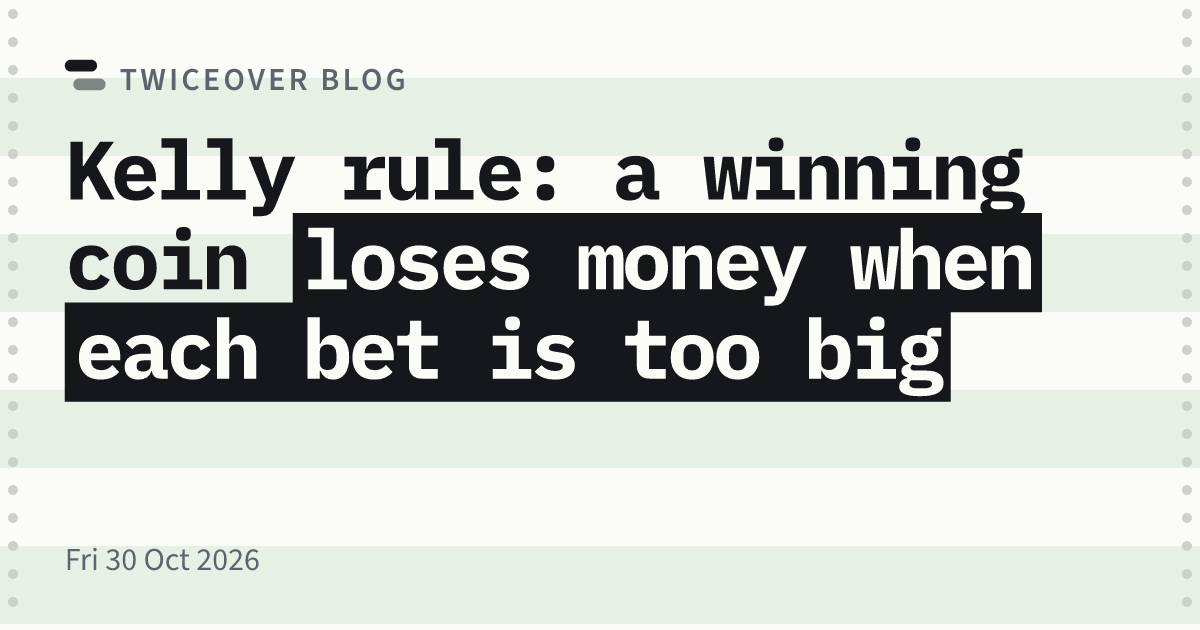
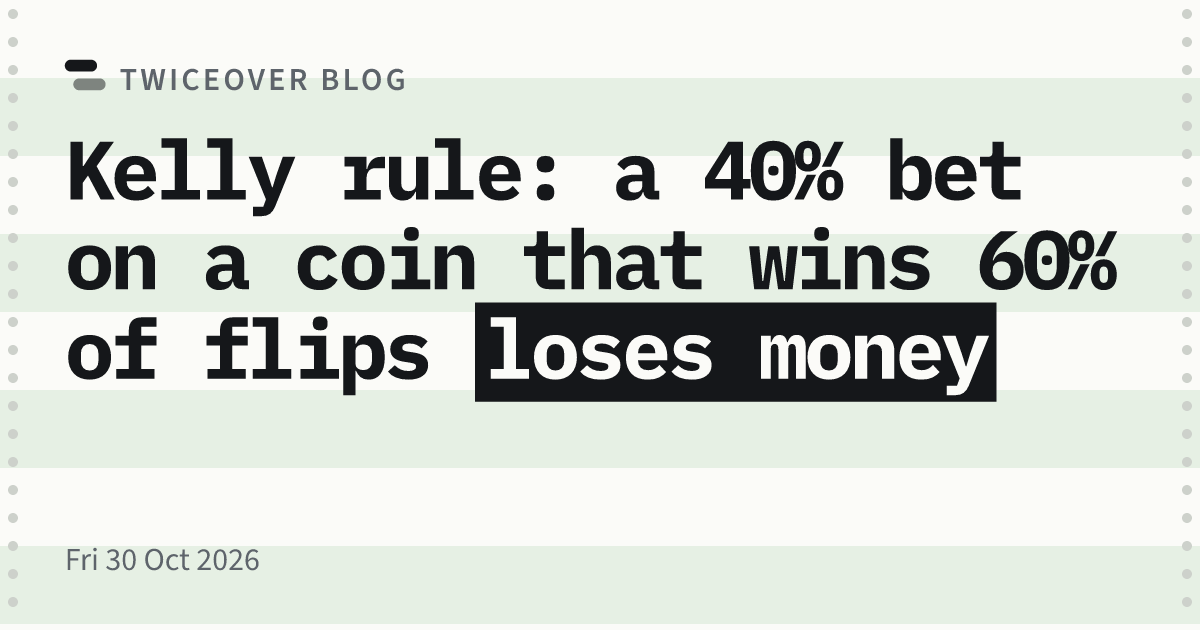
Blog: Fri 30 Oct, the Kelly rule on a 60% coin

Changed region(s): [[0.0308, 0.2111, 0.9558, 0.6635]]

diff --git a/src/content/blog/kelly-rule-bet-size.md b/src/content/blog/kelly-rule-bet-size.md
@@ -1,22 +1,22 @@
 ---
-title: "Kelly rule: a winning coin loses money when each bet is too big"
-description: "A coin that lands heads 60% of the time can still lose money. At a 40% bet on every flip, 60 wins in 100 turn $25 into $19.57. The Kelly rule puts the best bet at 20%, which ends at $187.25."
+title: "Kelly rule: a 40% bet on a coin that wins 60% of flips loses money"
+description: "A bet on a coin that lands heads 60% of the time can still lose money. At a 40% bet on every flip, 60 wins in 100 turn $25 into $19.57. The Kelly rule puts the fastest-growing bet at 20%, which ends at $187.25."
 publishAt: "2026-10-30T07:00:00-04:00"
 topic: "risk-sizing-behaviour"
 lens: "concept"
 build: "text-led"
 look: "printout"
-hit: "loses money when each bet is too big"
+hit: "loses money"
 sources: "Haghani and Dewey, 2017 | https://arxiv.org/abs/1701.01427; Kelly, 1956"
 ---
 
 ## In plain words
 
-An edge does not protect a stack from a bet that is too big. A coin that lands heads 60% of the time is a real edge, and it still loses money when each bet takes too much of the stack.
+A coin that lands heads 60% of the time gives its bettor a real edge. The bettor still loses money when each bet takes too much of the stack, the money on the table.
 
-At 20% of the stack a flip, 100 flips with 60 heads take $25 to $187.25. At 40% a flip, the same 100 flips leave $19.57. The coin did what it promised both times. Only the size changed.
+At 20% of the stack a flip, 100 flips with 60 heads take $25 to $187.25. At 40% a flip, the same 100 flips leave $19.57. The coin did what it promised both times.
 
-The best size has a name: the Kelly rule. For an even-money bet it is simple: the bet equals the edge. Here that is 60% minus 40%, so 20% of the stack.
+The Kelly rule gives the size that grows the stack fastest. John Kelly of Bell Labs published it in 1956. For an even-money bet the bet equals the edge. Here that is 60% minus 40%, so 20% of the stack.
 
 ## 1. The facts
 
@@ -39,49 +39,47 @@ Each row is the same run of 60 heads and 40 tails. The share stays fixed for all
 | 50% | $0.84 |
 | 100% | $0, at the first tail |
 
-The order of the flips changes nothing in this table. A head multiplies the stack by one plus the share bet. A tail multiplies it by one minus the share. Multiplication gives the same answer in any order, so only the count of heads matters.
+The order of the flips changes nothing in this table. Every flip multiplies the stack: by one plus the share on a head, and by one minus the share on a tail. Multiplication gives the same answer in any order, so only the count of heads matters.
 
-## 3. Why a bigger bet shrinks the stack
+## 3. Why a 40% bet shrinks the stack
 
-The loss is in one pair of flips. Take a 40% bet. A head turns $1.00 into $1.40, and a tail then takes 40% of that, leaving $0.84. One win and one loss cost 16% of the stack.
+The loss shows in any win followed by a loss. Take a 40% bet. A head turns $1.00 into $1.40, and a tail then takes 40% of that, leaving $0.84. One win and one loss cost 16% of the stack.
 
 At 20% the same pair leaves $0.96, a cost of 4%.
 
-The coin pays three heads for every two tails. At 20% a set of five flips like that multiplies the stack by 1.106, a gain of about 10.6%. At 40% the same five flips multiply it by 0.988, a loss of about 1.2%. Twenty such sets make the 100 flips in the table.
+The coin lands three heads for every two tails. At 20% a set of five flips like that multiplies the stack by 1.106, a gain of about 10.6%. At 40% the same five flips multiply it by 0.988, a loss of about 1.2%. Twenty such sets make the 100 flips in the table.
 
-## 4. The average says bet more, and the average misleads
+## 4. Why the average points the wrong way
 
 Each flip’s average gain rises with the bet. At 20% the average flip adds 4% of the stack. At 40% it adds 8%. Over 100 flips the average outcome at 40% is about $55,000.
 
-That average comes from a few runs with far more than 60 heads. The middle run, with exactly 60 heads, ends at $19.57. At a 40% bet, 54% of all 100-flip runs finish below the $25 start. At 20% that share is 18%. It is the same 60% coin in every run.
+That average comes from a few runs with far more than 60 heads. The middle run, the median, has exactly 60 heads and ends at $19.57. At a 40% bet, 54% of all 100-flip runs finish below the $25 start. At a 20% bet the figure is 18%.
 
-The Kelly rule gives the fastest growth to the middle run, which is the typical one. At twice the Kelly size, that growth falls to about zero. On this coin it is just below zero, and the stack slowly shrinks.
+The Kelly rule gives the fastest growth to the middle run, which is the typical one. At twice the Kelly size that growth falls to just below zero on this coin, and the stack slowly shrinks.
 
-## 5. What 61 finance-trained players did with the coin
+## 5. What 61 economics students and finance workers did with the coin
 
 Victor Haghani and Richard Dewey put real money on this coin. Their paper, posted in January 2017, describes the game.
 
 - 61 players, mostly college students in economics and finance and young professionals at finance firms.
-- Each got $25 and thirty minutes of flips, with a cap of $250 on winnings.
+- Each got $25 and 30 minutes of flips, with payouts capped at $250.
 - The game’s rules said, in bold, that the coin came up heads 60% of the time.
 - The paper puts the Kelly bet at 20% of the stack.
 
 > “Only 21% of participants reached the maximum payout of $250”
 
-The paper says a steady bet of anywhere from 10% to 20% would have taken 95% of players to the cap. Instead 28% went bust and got nothing. The average payout was $91. Eighteen players bet everything on a single flip. Forty-one bet on tails at some point, on a coin they knew favoured heads. Only 5 of the 61 had heard of the Kelly criterion, the paper’s name for the rule.
+Their game ran longer than 100 flips and stopped at the cap. Over that game, the paper says, a steady bet of anywhere from 10% to 20% would have taken 95% of players to the cap. Instead 28% went bust and got nothing. The average payout was $91. Eighteen players bet everything on a single flip. Forty-one bet on tails at some point, on a coin they knew favored heads. Only 5 of the 61 had heard of the Kelly criterion, the paper’s name for the rule.
 
-The players’ average bet was 15% of the stack, inside that range. The paper calls their betting erratic, too small and then too big.
+The players’ average bet was 15% of the stack, inside that range. The paper calls their betting erratic, too small and then too big, and an average of 15% can hide one all-in flip.
 
 ## 6. What the coin says about trading
 
-A trader’s edge is never printed on a coin. It is an estimate, and an estimate can run high. The table shows what that error costs.
+A trader’s edge is an estimate, and an estimate can run high.
 
-An edge overestimated by half moves the bet from 20% to 30%, and the $25 ends at $109.26 instead of $187.25. That is close to what a 10% bet makes, at $112.51. Twice the right bet, 40%, ends at $19.57, below the start. The cost of betting too big climbs fast past 30%.
-
-John Kelly published the rule from Bell Labs in 1956, framed as a gambler receiving tips over a noisy telephone line. Haghani and Dewey’s players had the edge printed in their rules, and many of them still sized it badly.
+A trader who reads the edge as 30% when it is really 20% bets 30% a flip. On the table’s run, the $25 then ends at $109.26 instead of $187.25. An edge misread as 40% doubles the Kelly bet. The $25 then ends at $19.57, below the start.
 
 ## 7. Play the coin
 
-[The 60% coin](/blog/play/coin) is this game, with the same $25 start, the $250 cap and up to 300 flips. It also shows 2,000 games at each bet size.
+Our game [The 60% coin](/blog/play/coin) runs the same coin with a $25 start, a $250 cap and up to 300 flips. It also shows 2,000 games at each bet size.
 
-Two earlier posts work the same kind of arithmetic on real markets. One counts [how often earnings moves stayed inside the implied move](/blog/earnings-implied-move-average). The other is [what can happen to an option after expiration day’s close](/blog/expiring-option-after-the-close).
+Two earlier posts put numbers on risk in real markets: [how often earnings moves stayed inside the implied move](/blog/earnings-implied-move-average), and [what can happen to an option after expiration day’s close](/blog/expiring-option-after-the-close).
